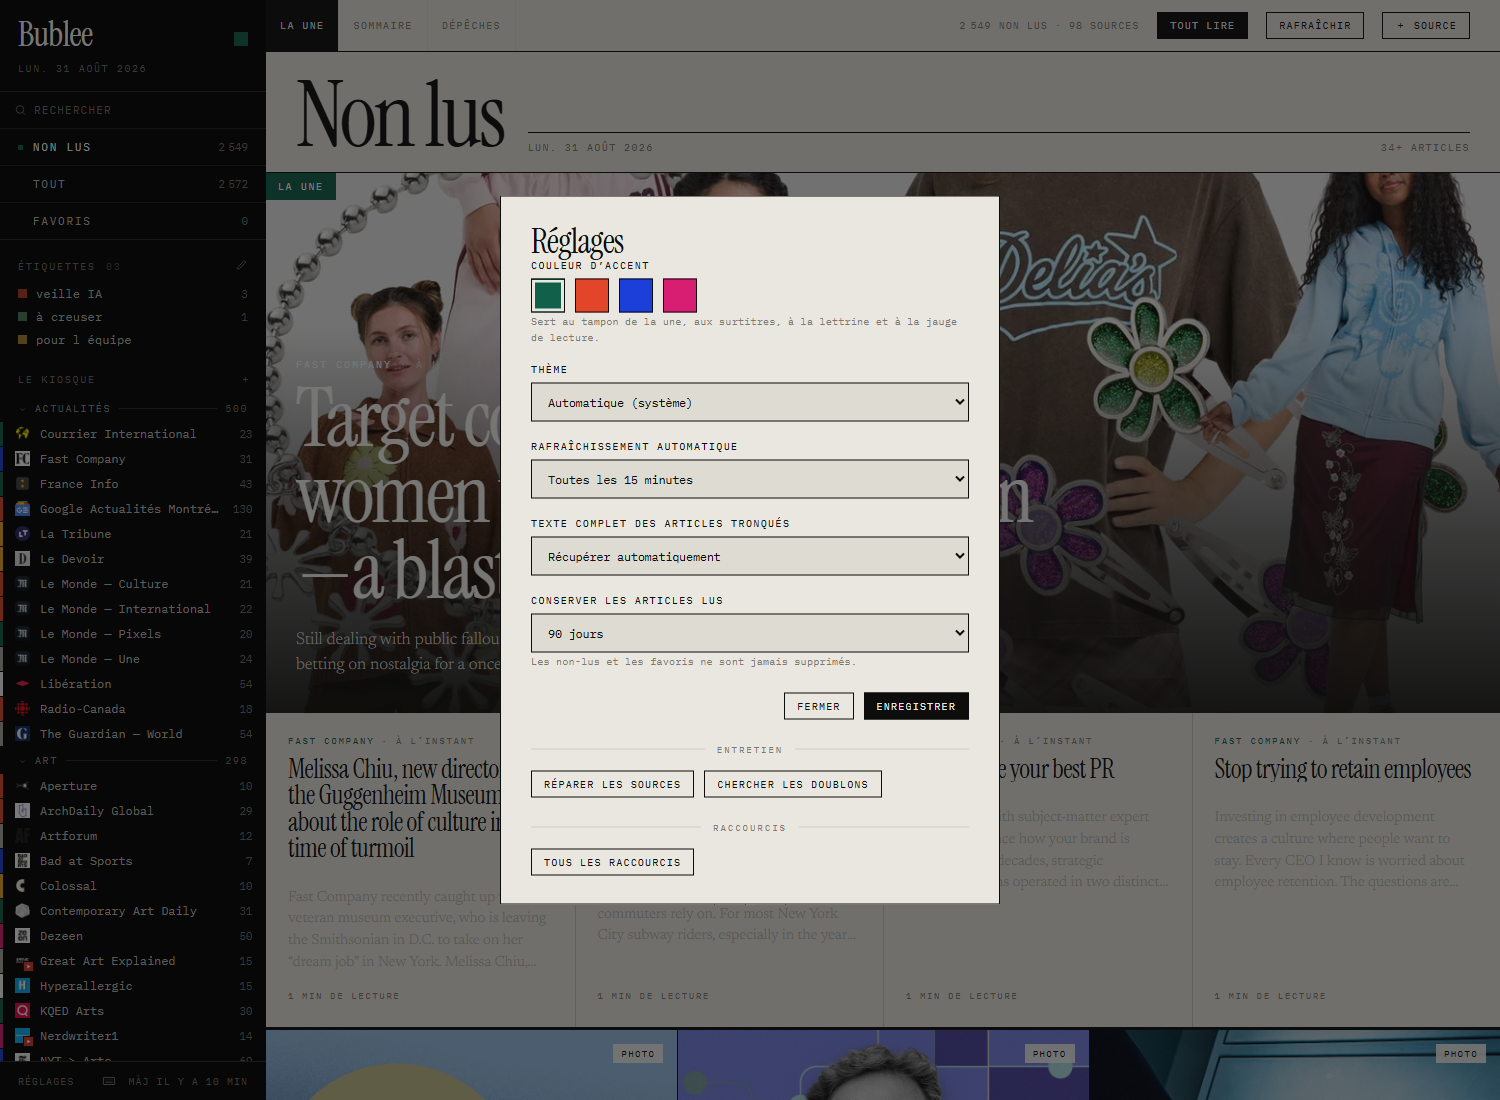
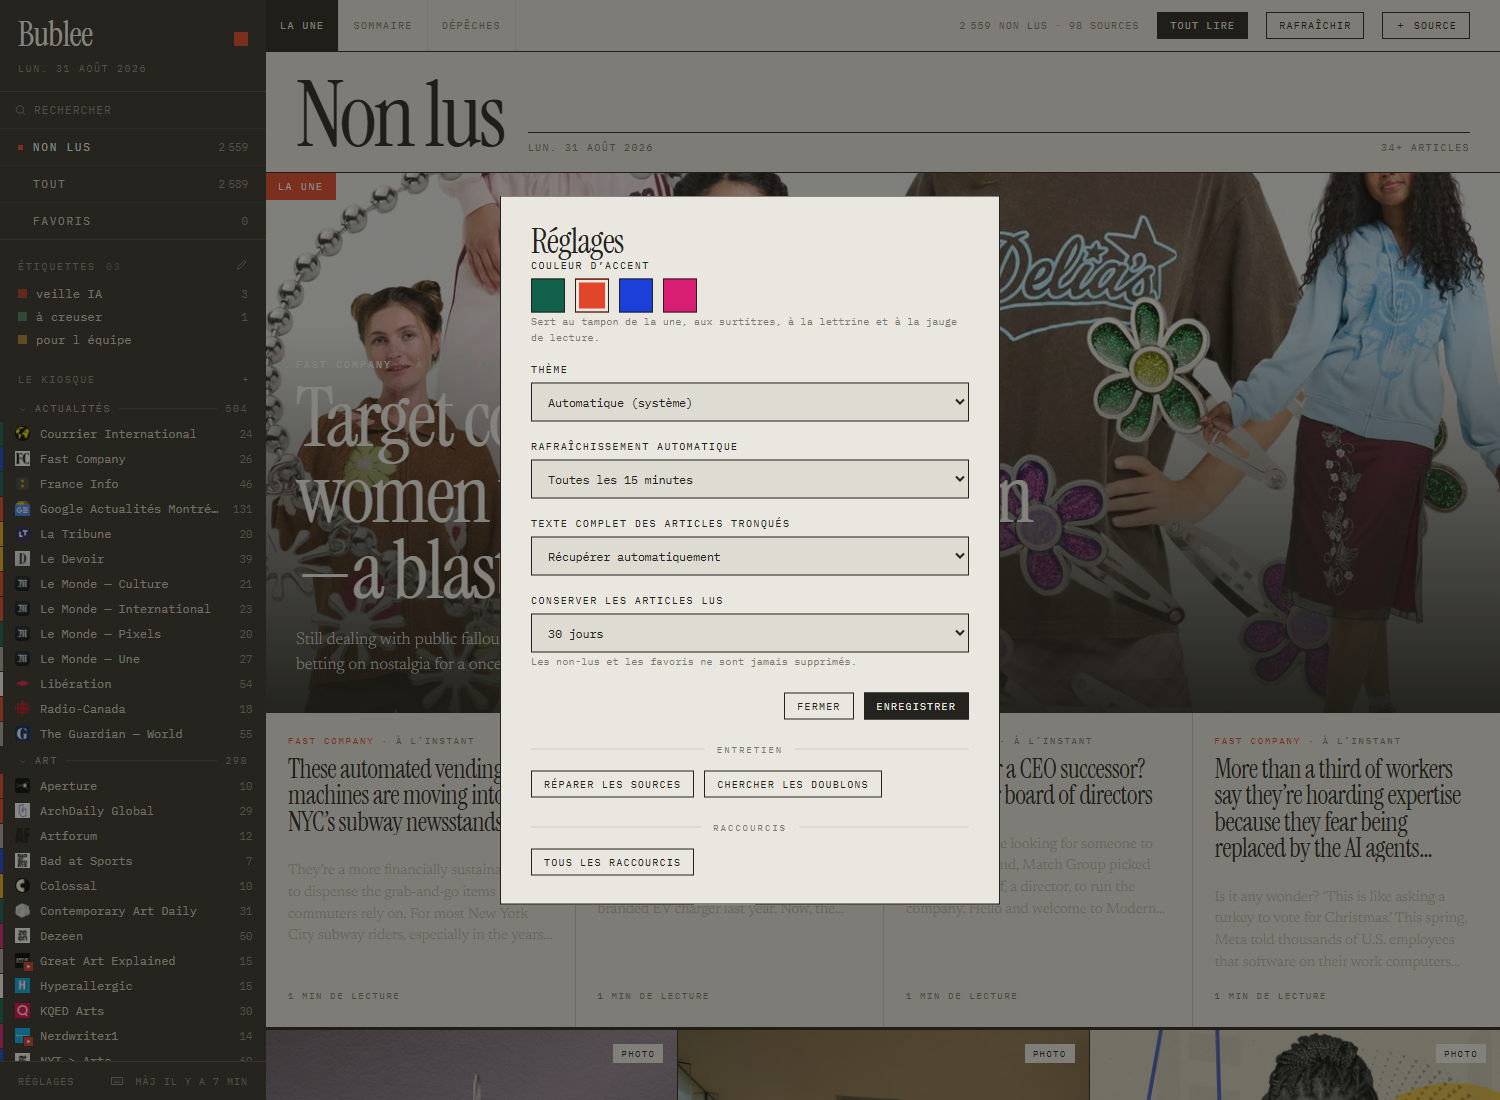
Adoucir les noirs : l'encre chaude remplace le presque-noir
L'index en #0d0d0c contre un papier crème donnait 15,7:1 à la lisière —
une arête dure sur une page qu'on lit longtemps. L'encre passe à #24231f,
l'index à #302e2a, le fond des blocs photo à #1b1a17, et les voiles posés
sur les images suivent la même famille chaude. La lisière tombe à 10,5:1,
le texte à 12,7:1 : toujours très au-dessus du seuil AAA.

Les gris de l'index montent d'autant (#8c887e au lieu de #6f6d66 pour la
méta) : sur un fond éclairci, il fallait les remonter pour conserver le
même rapport de lisibilité — la méta y gagne même un peu.

En thème sombre, ni la page ni l'index n'étaient tenables : #0d0d0c et
#000. Ils deviennent #161513 et #100f0e, l'index restant le plus sombre
des deux pour se détacher.

Deux correctifs au passage :

— `--paper` s'inversait en thème sombre alors qu'il désigne l'encre claire
posée sur un fond sombre. La plaque sombre devenait donc claire et son
titre blanc disparaissait. Le token reste clair dans les deux thèmes, et
les surfaces qui l'utilisaient comme fond passent sur `--bone-2`.

— Choisir une couleur d'accent l'appliquait localement mais ne
l'enregistrait qu'en validant la fenêtre : fermer sans valider laissait le
navigateur et le serveur en désaccord, et la copie locale gagnait au
rechargement. L'accent est désormais gardé au clic.

diff --git a/public/styles.css b/public/styles.css
@@ -5,12 +5,17 @@
    =========================================================================== */
 
 :root {
-  --ink:    #0d0d0c;   /* encre : texte, filets forts, fond de l'index */
-  --ink-2:  #1c1b19;   /* séparateurs internes de l'index */
-  --bone:   #e9e7e0;   /* fond de page */
-  --bone-2: #dedbd2;   /* aplats clairs, survol de ligne */
-  --paper:  #f6f5f1;   /* texte sur fond encre */
-  --mute:   #7d7a71;   /* méta, libellés secondaires */
+  /* Des noirs chauds, jamais purs : l'encre d'un journal n'est pas du #000,
+     et un aplat trop sombre à côté du papier fatigue à la lecture longue. */
+  --ink:      #24231f;   /* encre : texte, filets forts, aplats pleins */
+  --ink-deep: #1b1a17;   /* fond des blocs photo, derrière les voiles */
+  --index-bg: #302e2a;   /* l'index : un cran au-dessus de l'encre */
+  --ink-2:    #403d37;   /* séparateurs internes de l'index */
+  --voile:    27, 26, 22;/* base des voiles posés sur les images */
+  --bone:     #e9e7e0;   /* fond de page */
+  --bone-2:   #dedbd2;   /* aplats clairs, survol de ligne */
+  --paper:    #f6f5f1;   /* encre claire : texte posé sur un fond sombre */
+  --mute:     #7d7a71;   /* méta, libellés secondaires */
 
   /* Accent — réglable dans les préférences. Vert forêt par défaut. */
   --accent: #10604a;
@@ -19,12 +24,14 @@
   --rule-col:  #c9c6bc;
   --rule-list: #cfccc2;
   --rule-fil:  #d6d3c9;
-  --dark-rule: #2a2925;
-  --dark-hov:  #171614;
-  --on-ink-1:  #b9b6ad;
-  --on-ink-2:  #9d9a92;
-  --on-ink-3:  #8d8a82;
-  --on-ink-4:  #6f6d66;
+  --dark-rule: #4c4941;
+  --dark-hov:  #3b3833;
+  /* Sur un fond d'index éclairci, les gris doivent monter d'autant pour que
+     la méta garde le même rapport de lisibilité. */
+  --on-ink-1:  #cbc7bd;
+  --on-ink-2:  #b5b1a7;
+  --on-ink-3:  #a29e94;
+  --on-ink-4:  #8c887e;
 
   --display: 'Instrument Serif', 'Iowan Old Style', Georgia, serif;
   --body:    'Newsreader', Georgia, 'Times New Roman', serif;
@@ -38,12 +45,13 @@
 /* Le thème sombre inverse le papier et l'encre ; l'index passe au noir pur
    pour rester distinct du fond, les filets deviennent translucides. */
 :root[data-theme='dark'] {
-  --ink:    #e9e7e0;
-  --ink-2:  rgba(233, 231, 224, .14);
-  --bone:   #0d0d0c;
-  --bone-2: #1a1917;
-  --paper:  #0d0d0c;
-  --mute:   #8d8a82;
+  --ink:      #e4e1d9;
+  --ink-deep: #0f0e0d;
+  --index-bg: #100f0e;
+  --ink-2:    rgba(228, 225, 217, .12);
+  --bone:     #161513;
+  --bone-2:   #211f1c;
+  --mute:     #8d8a82;
 
   --rule-col:  rgba(233, 231, 224, .16);
   --rule-list: rgba(233, 231, 224, .14);
@@ -58,12 +66,13 @@
 
 @media (prefers-color-scheme: dark) {
   :root[data-theme='auto'] {
-    --ink:    #e9e7e0;
-    --ink-2:  rgba(233, 231, 224, .14);
-    --bone:   #0d0d0c;
-    --bone-2: #1a1917;
-    --paper:  #0d0d0c;
-    --mute:   #8d8a82;
+    --ink:      #e4e1d9;
+    --ink-deep: #0f0e0d;
+    --index-bg: #100f0e;
+    --ink-2:    rgba(228, 225, 217, .12);
+    --bone:     #161513;
+    --bone-2:   #211f1c;
+    --mute:     #8d8a82;
 
     --rule-col:  rgba(233, 231, 224, .16);
     --rule-list: rgba(233, 231, 224, .14);
@@ -73,11 +82,8 @@
   }
 }
 
-/* En sombre, l'index reste un bloc noir et son texte clair : il ne suit pas
-   l'inversion générale, sinon il se confondrait avec la page. */
-:root[data-theme='dark'] .index,
-:root[data-theme='auto'] .index { --index-bg: #000; }
-.index { --index-bg: var(--ink); }
+/* L'index garde son propre fond dans les deux thèmes : en clair il est plus
+   sombre que la page, en sombre légèrement plus sombre encore — jamais noir. */
 
 /* ------------------------------------------------------------------ socle */
 
@@ -113,7 +119,7 @@ h1, h2, h3, p, dl, dd, figure { margin: 0; }
 
 .skip-link {
   position: fixed; top: -60px; left: 12px; z-index: 999;
-  background: var(--ink); color: var(--bone);
+  background: var(--ink-deep); color: var(--paper);
   padding: 10px 16px; text-decoration: none;
   font-family: var(--mono); font-size: 10px; letter-spacing: .18em; text-transform: uppercase;
 }
@@ -210,7 +216,7 @@ h1, h2, h3, p, dl, dd, figure { margin: 0; }
   font-family: var(--mono); font-size: 9.5px; letter-spacing: .22em; text-transform: uppercase;
   color: var(--on-ink-4);
 }
-.index-section .count { color: #4c4b46; font-variant-numeric: tabular-nums; }
+.index-section .count { color: #6b675e; font-variant-numeric: tabular-nums; }
 .index-section .grow { flex: 1; }
 .index-section button { color: var(--on-ink-4); }
 .index-section button:hover { color: #f6f5f1; }
@@ -237,7 +243,7 @@ h1, h2, h3, p, dl, dd, figure { margin: 0; }
   scrollbar-width: thin; scrollbar-color: #35342f transparent;
 }
 .index-feeds::-webkit-scrollbar { width: 8px; }
-.index-feeds::-webkit-scrollbar-thumb { background: #35342f; }
+.index-feeds::-webkit-scrollbar-thumb { background: #56534b; }
 .index-feeds::-webkit-scrollbar-track { background: transparent; }
 
 .folder-head {
@@ -280,7 +286,7 @@ h1, h2, h3, p, dl, dd, figure { margin: 0; }
   position: absolute; right: -4px; bottom: -4px;
   width: 11px; height: 11px;
   display: grid; place-items: center;
-  background: #0d0d0c;
+  background: var(--index-bg);
 }
 .feed-badge svg { width: 9px; height: 9px; stroke: none; }
 
@@ -396,14 +402,14 @@ h1, h2, h3, p, dl, dd, figure { margin: 0; }
 .une {
   position: relative;
   height: min(60vh, 540px);
-  background: var(--ink);
+  background: var(--ink-deep);
   overflow: hidden;
 }
 .une img { width: 100%; height: 100%; object-fit: cover; display: block; transition: transform .9s var(--ease); }
 .une:hover img { transform: scale(1.05); }
 .une-voile {
   position: absolute; inset: 0; pointer-events: none;
-  background: linear-gradient(to top, rgba(13,13,12,.92) 0%, rgba(13,13,12,.55) 34%, rgba(13,13,12,0) 72%);
+  background: linear-gradient(to top, rgba(var(--voile), .9) 0%, rgba(var(--voile), .52) 34%, rgba(var(--voile), 0) 72%);
 }
 .une-tampon {
   position: absolute; left: 0; top: 0;
@@ -485,7 +491,7 @@ h1, h2, h3, p, dl, dd, figure { margin: 0; }
 .wall { display: grid; grid-template-columns: repeat(3, minmax(0, 1fr)); }
 .tuile {
   position: relative; height: 340px; overflow: hidden;
-  background: var(--ink);
+  background: var(--ink-deep);
   border-left: 1px solid var(--ink);
   text-align: left;
 }
@@ -494,7 +500,7 @@ h1, h2, h3, p, dl, dd, figure { margin: 0; }
 .tuile:hover img { transform: scale(1.05); }
 .tuile-voile {
   position: absolute; inset: 0; pointer-events: none;
-  background: linear-gradient(to top, rgba(13,13,12,.9), rgba(13,13,12,.1) 62%);
+  background: linear-gradient(to top, rgba(var(--voile), .88), rgba(var(--voile), .1) 62%);
 }
 .tuile-corps { position: absolute; left: 0; right: 0; bottom: 0; padding: 16px 20px 22px; }
 .tuile-sur {
@@ -511,10 +517,10 @@ h1, h2, h3, p, dl, dd, figure { margin: 0; }
   position: absolute; right: 14px; top: 14px;
   padding: 4px 8px;
   font-family: var(--mono); font-size: 8.5px; letter-spacing: .2em; text-transform: uppercase;
-  background: rgba(246,245,241,.9); color: #0d0d0c;
+  background: rgba(246,245,241,.92); color: var(--ink);
 }
 .badge.video { background: var(--accent); color: #fff; }
-.badge.audio { background: #f0a91d; color: #0d0d0c; }
+.badge.audio { background: #f0a91d; color: var(--ink-deep); }
 
 /* --- aplats et plaques typographiques --- */
 .aplats {
@@ -567,14 +573,14 @@ h1, h2, h3, p, dl, dd, figure { margin: 0; }
   text-align: left;
 }
 .plaque.claire { background: var(--bone-2); }
-.plaque.sombre { background: var(--ink); }
+.plaque.sombre { background: var(--ink-deep); }
 .plaque-initiale {
   position: absolute; left: -2%; bottom: -24%;
   font-family: var(--display); font-size: 300px; line-height: 1;
   pointer-events: none; user-select: none;
 }
-.plaque.claire .plaque-initiale { color: rgba(13,13,12,.12); }
-.plaque.sombre .plaque-initiale { color: var(--teinte-douce, rgba(246,245,241,.18)); }
+.plaque.claire .plaque-initiale { color: rgba(36, 35, 31, .13); }
+.plaque.sombre .plaque-initiale { color: var(--teinte-douce, rgba(246,245,241,.2)); }
 
 .plaque-source {
   position: absolute; right: 12px; top: 26px;
@@ -593,7 +599,7 @@ h1, h2, h3, p, dl, dd, figure { margin: 0; }
   text-wrap: pretty; transition: color .2s ease;
   display: -webkit-box; -webkit-line-clamp: 5; -webkit-box-orient: vertical; overflow: hidden;
 }
-.plaque.sombre .plaque-titre { color: #f6f5f1; }
+.plaque.sombre .plaque-titre { color: var(--paper); }
 .plaque:hover .plaque-titre { color: var(--accent); }
 .plaque .wipe { border-top-color: var(--ink); margin-top: auto; }
 .plaque.sombre .wipe { border-top-color: var(--on-ink-4); }
@@ -761,21 +767,20 @@ h1, h2, h3, p, dl, dd, figure { margin: 0; }
   flex: none; height: 52px;
   display: flex; align-items: center; gap: 16px;
   padding: 0 22px;
-  background: var(--ink); color: var(--paper);
+  background: var(--ink-deep); color: var(--paper);
   font-family: var(--mono); font-size: 9.5px; letter-spacing: .2em; text-transform: uppercase;
 }
-:root[data-theme='dark'] .reader-bar, :root[data-theme='auto'] .reader-bar { color: var(--bone); }
 .reader-bar button, .reader-bar a {
   font-family: var(--mono); font-size: 9.5px; letter-spacing: .2em; text-transform: uppercase;
   color: #f6f5f1; white-space: nowrap;
   transition: color .2s ease;
 }
 .reader-bar button:hover, .reader-bar a:hover { color: var(--accent); }
-.reader-bar .sep { width: 1px; height: 20px; background: #33322d; flex: none; }
+.reader-bar .sep { width: 1px; height: 20px; background: var(--dark-rule); flex: none; }
 .reader-bar .infos { color: var(--on-ink-2); overflow: hidden; text-overflow: ellipsis; white-space: nowrap; }
 .reader-bar .grow { flex: 1; }
 .reader-bar .original {
-  padding: 6px 12px; background: #f6f5f1; color: #0d0d0c;
+  padding: 6px 12px; background: var(--paper); color: var(--ink-deep);
 }
 .reader-bar .original:hover { background: var(--accent); color: #fff; }
 .reader-bar button.on { color: var(--accent); }
@@ -785,11 +790,11 @@ h1, h2, h3, p, dl, dd, figure { margin: 0; }
 .reader-scroll::-webkit-scrollbar-thumb { background: #c6c3b9; }
 
 /* bandeau d'ouverture */
-.reader-hero { position: relative; height: min(52vh, 460px); background: var(--ink); overflow: hidden; }
+.reader-hero { position: relative; height: min(52vh, 460px); background: var(--ink-deep); overflow: hidden; }
 .reader-hero img { width: 100%; height: 100%; object-fit: cover; display: block; }
 .reader-hero .voile {
   position: absolute; inset: 0;
-  background: linear-gradient(to top, rgba(13,13,12,.94) 0%, rgba(13,13,12,.4) 42%, rgba(13,13,12,0) 80%);
+  background: linear-gradient(to top, rgba(var(--voile), .92) 0%, rgba(var(--voile), .4) 42%, rgba(var(--voile), 0) 80%);
 }
 .reader-hero-corps {
   position: absolute; left: 0; right: 0; bottom: 0;
@@ -813,7 +818,7 @@ h1, h2, h3, p, dl, dd, figure { margin: 0; }
 }
 
 /* le bandeau devient une plaque quand l'article n'a pas d'illustration */
-.reader-hero.plaque-hero { background: var(--teinte, var(--ink)); }
+.reader-hero.plaque-hero { background: var(--teinte, var(--ink-deep)); }
 .reader-hero.plaque-hero .plaque-initiale { font-size: 420px; left: -1%; bottom: -34%; color: rgba(246,245,241,.14); }
 
 .reader-inner { max-width: 66ch; margin: 0 auto; padding: 0 20px 90px; }
@@ -917,7 +922,7 @@ h1, h2, h3, p, dl, dd, figure { margin: 0; }
 
 /* =========================================================== fenêtres */
 
-.modal-shade { position: fixed; inset: 0; z-index: 70; background: rgba(13,13,12,.55); animation: ed-fade .2s var(--ease); }
+.modal-shade { position: fixed; inset: 0; z-index: 70; background: rgba(var(--voile), .52); animation: ed-fade .2s var(--ease); }
 
 .modal {
   position: fixed; z-index: 71; top: 50%; left: 50%; transform: translate(-50%, -50%);
@@ -1045,7 +1050,7 @@ kbd {
   display: flex; flex-direction: column-reverse; gap: 8px; align-items: center; pointer-events: none;
 }
 .toast {
-  padding: 10px 18px; background: var(--ink); color: var(--bone);
+  padding: 10px 18px; background: var(--ink-deep); color: var(--paper);
   font-family: var(--mono); font-size: 9.5px; letter-spacing: .16em; text-transform: uppercase;
   animation: ed-up .28s var(--ease); pointer-events: auto;
 }

diff --git a/public/js/app.js b/public/js/app.js
@@ -63,7 +63,7 @@ function teinte(texte) {
 function contraste(hex) {
   const n = parseInt(String(hex).slice(1), 16);
   const lum = (((n >> 16) & 255) * 299 + ((n >> 8) & 255) * 587 + (n & 255) * 114) / 1000;
-  return lum > 150 ? '#0d0d0c' : '#f6f5f1';
+  return lum > 150 ? '#1b1a17' : '#f6f5f1';
 }
 
 function rgba(hex, alpha) {
@@ -170,9 +170,9 @@ function pastilleType(kind) {
   if (kind === 'podcast') {
     return `<span class="feed-badge"><svg viewBox="0 0 12 12" aria-hidden="true">
       <rect width="12" height="12" fill="#f0a91d"/>
-      <rect x="2.5" y="4.5" width="1.2" height="3" fill="#0d0d0c"/>
-      <rect x="5.4" y="2.6" width="1.2" height="6.8" fill="#0d0d0c"/>
-      <rect x="8.3" y="4.5" width="1.2" height="3" fill="#0d0d0c"/></svg></span>`;
+      <rect x="2.5" y="4.5" width="1.2" height="3" fill="#1b1a17"/>
+      <rect x="5.4" y="2.6" width="1.2" height="6.8" fill="#1b1a17"/>
+      <rect x="8.3" y="4.5" width="1.2" height="3" fill="#1b1a17"/></svg></span>`;
   }
   return '';
 }
@@ -1272,11 +1272,14 @@ function wireEvents() {
   $('#shortcutsBtn').addEventListener('click', () => openModal('#shortcutsModal'));
   $('#openShortcuts').addEventListener('click', () => openModal('#shortcutsModal'));
 
+  // L'accent se garde au clic : sans cela, fermer la fenêtre sans valider
+  // laissait la copie locale et le serveur en désaccord.
   $('#accentChoices').addEventListener('click', (e) => {
     const s = e.target.closest('[data-accent]');
     if (!s) return;
     applyAccent(s.dataset.accent);
     renderAccents();
+    api.settings({ accent: s.dataset.accent }).catch(() => {});
   });
 
   $('#feedForm').addEventListener('submit', ajouterFlux);

diff --git a/README.md b/README.md
@@ -87,7 +87,14 @@ Trois familles, et une règle : **aucun texte d'interface n'est en sans-serif.**
 | Méta, surtitres, boutons, compteurs, heures | **IBM Plex Mono**, capitales |
 
 `border-radius: 0` partout, aucune ombre, aucun flou : la hiérarchie tient aux
-filets et aux aplats. L'**accent** est une variable unique — tampon de la une,
+filets et aux aplats.
+
+Les noirs sont **chauds et jamais purs** : l'encre est `#24231f`, l'index
+`#302e2a`, le fond des blocs photo `#1b1a17`. Un aplat noir franc contre le
+papier crème donnait 15,7:1 à la lisière — une arête qui fatigue sur une page
+qu'on lit longtemps. On est à 10,5:1, très au-dessus du seuil AAA (7:1), et
+les gris de l'index ont monté d'autant pour garder le même rapport sur un
+fond éclairci. L'**accent** est une variable unique — tampon de la une,
 surtitres, filet qui se dessine au survol, pastilles de non-lu, lettrine, jauge
 de lecture. Quatre valeurs au choix dans les réglages : forêt `#10604a` (par
 défaut), vermillon `#e2452a`, Klein `#1b3fd8`, magenta `#d81e73`.
